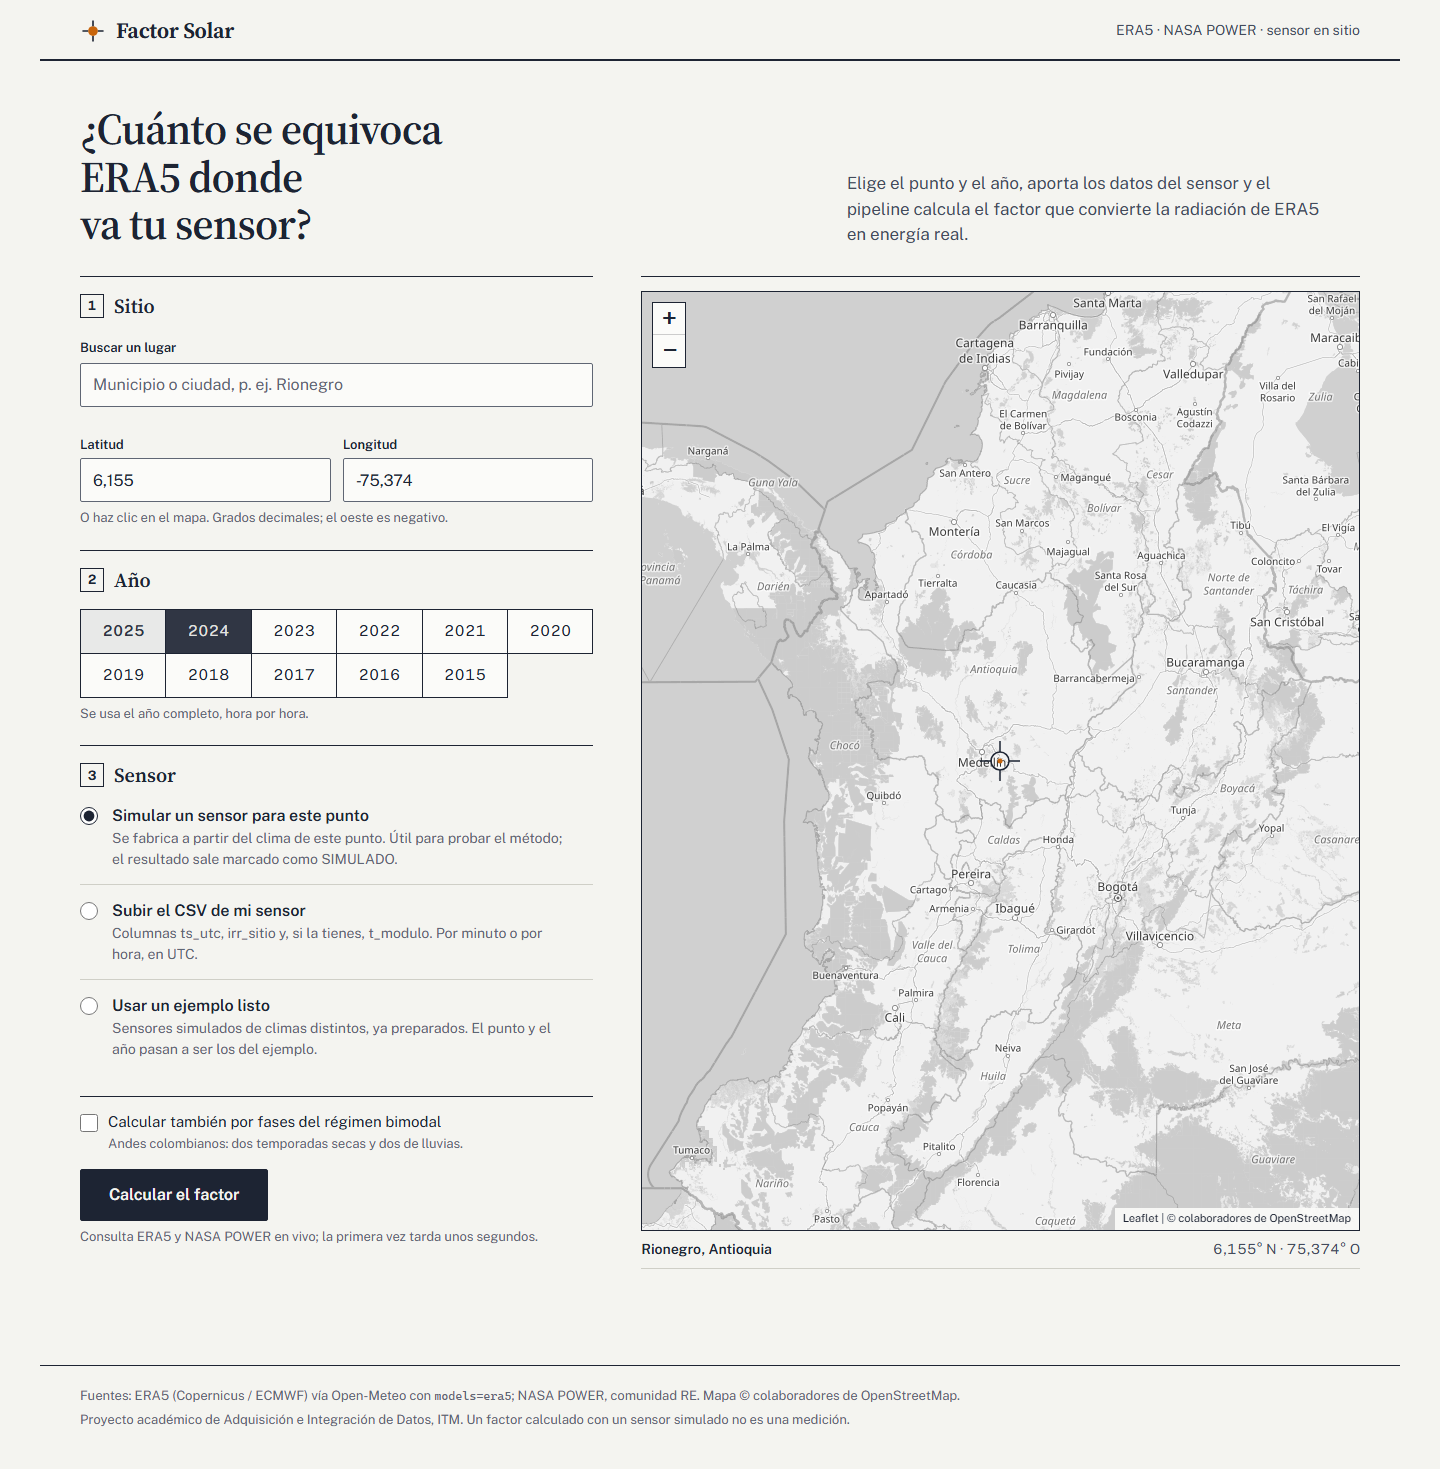
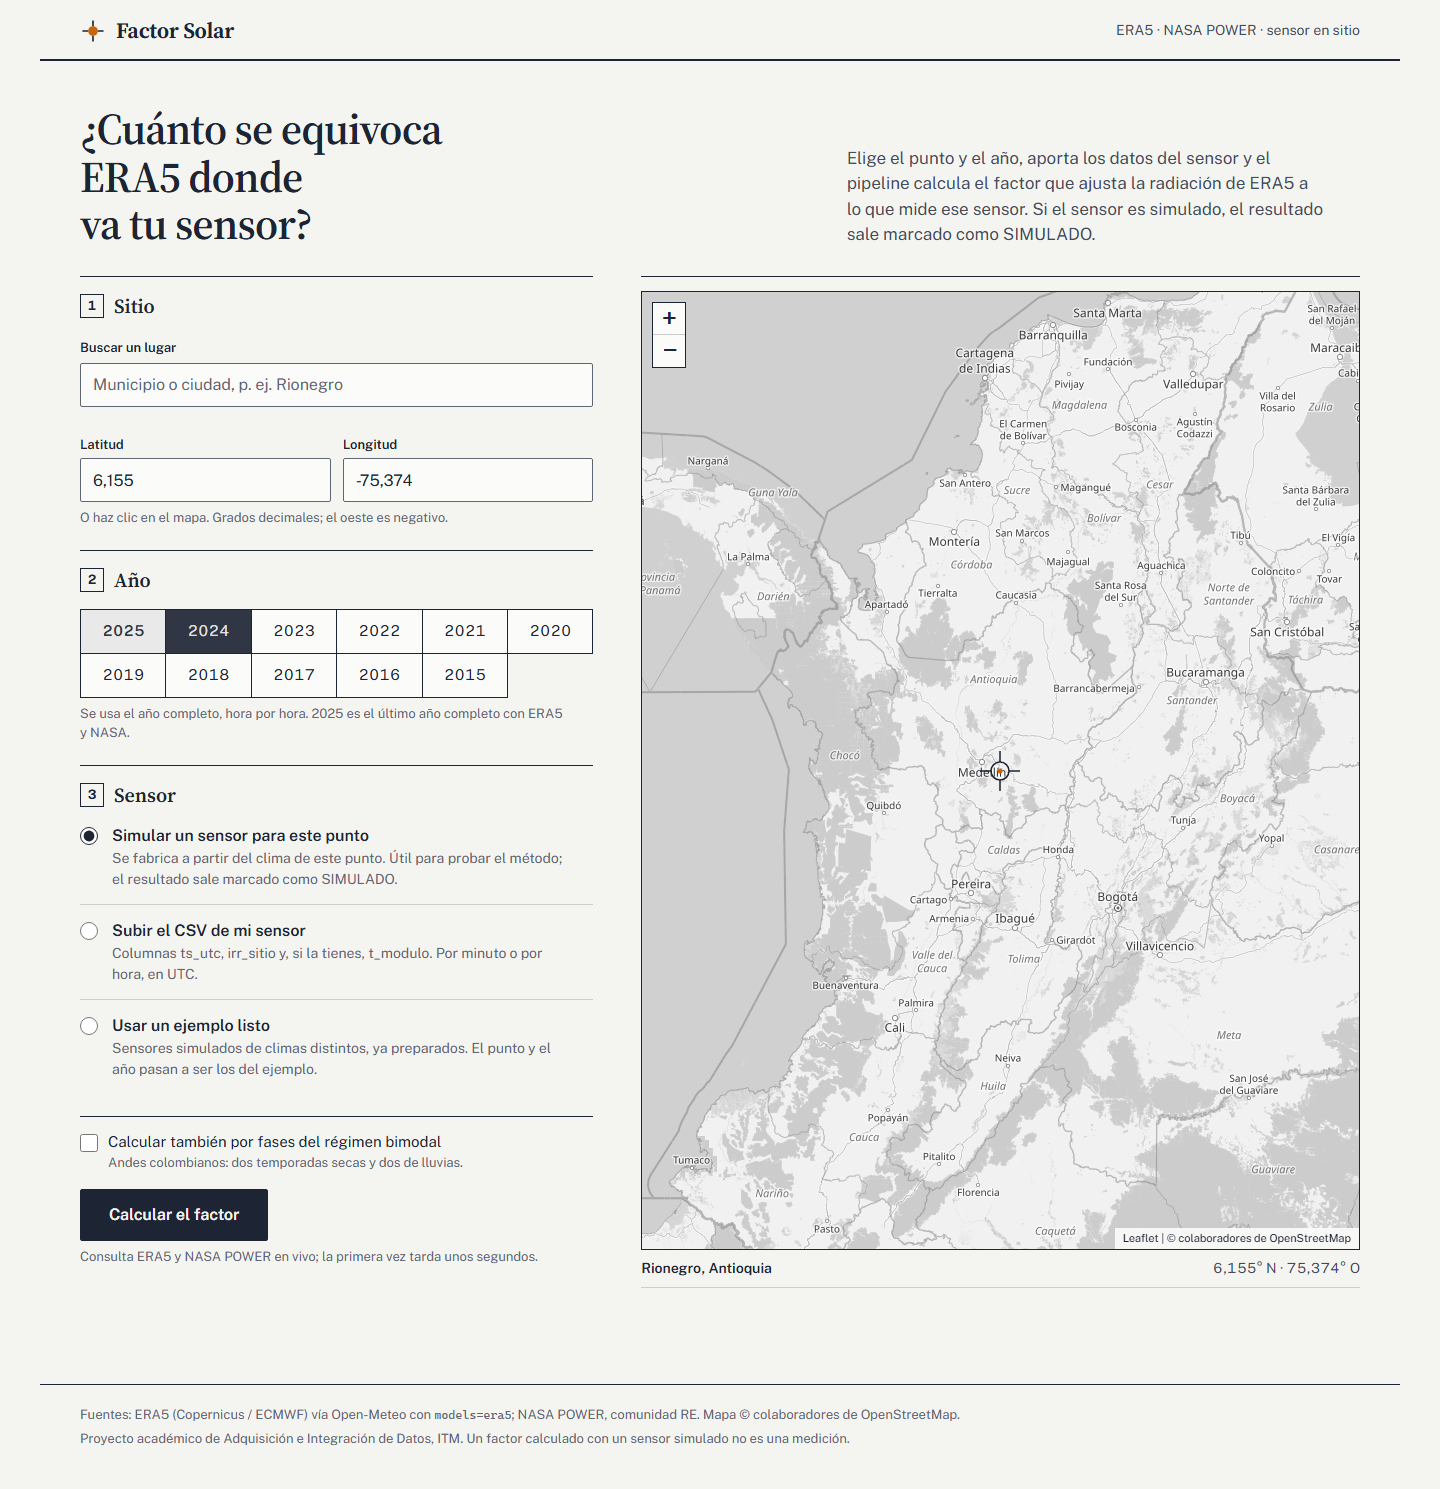
test(qa): add honesty E2E and re-capture screenshots

diff --git a/frontend/qa/honestidad.spec.ts b/frontend/qa/honestidad.spec.ts
@@ -1,0 +1,241 @@
+import { expect, test, type Page } from '@playwright/test'
+import path from 'node:path'
+import { fileURLToPath } from 'node:url'
+import type { EstadoAnalisis, Resultado } from '../src/api/tipos'
+import { resultadoDemo } from '../src/api/mock'
+
+// Honestidad del informe (revisión W4): el informe se arma con una respuesta de /api/analisis fabricada
+// (la forma de la API, cifras de prueba) para forzar los casos que el cálculo real rara vez produce:
+// factor mayor que 1, nulos, sensor simulado, año parcial, reloj del CSV corrido.
+// El backend real solo aporta /api/salud y /api/ejemplos (QA_MODO=real, backend en :8000).
+const SALIDA = path.resolve(path.dirname(fileURLToPath(import.meta.url)), '../../qa/capturas')
+
+test.skip(process.env.QA_MODO !== 'real', 'Solo contra el backend real (QA_MODO=real).')
+
+const ID = 'an-0123456789'
+
+function base(): Resultado {
+  const r = resultadoDemo({ lat: 6.147, lon: -75.377, anio: 2024, sensor_id: 'x' }, ID)
+  r.sitio.nombre = 'Sitio de prueba'
+  return r
+}
+
+/** Informe con el análisis interceptado: no toca el cálculo real. */
+async function verInforme(page: Page, r: Resultado, ancho = 1440) {
+  await page.setViewportSize({ width: ancho, height: 900 })
+  await page.route((u) => u.pathname === '/api/analisis', (ruta) =>
+    ruta.request().method() === 'POST' ? ruta.fulfill({ json: { analisis_id: ID } }) : ruta.continue(),
+  )
+  await page.route((u) => u.pathname === `/api/analisis/${ID}`, (ruta) => {
+    const estado: EstadoAnalisis = {
+      analisis_id: ID,
+      estado: 'listo',
+      etapas: [],
+      resultado: r,
+      error: null,
+    }
+    return ruta.fulfill({ json: estado })
+  })
+  await page.goto('/')
+  await page.getByLabel('Usar un ejemplo listo').check()
+  await page.getByRole('button', { name: /Rionegro/ }).click()
+  await page.getByRole('button', { name: 'Calcular el factor' }).click()
+  const informe = page.locator('.informe')
+  await expect(informe).toBeVisible({ timeout: 60_000 })
+  await page.waitForTimeout(1200) // el número del factor se asienta
+  return informe
+}
+
+test('factor mayor que 1: el texto dice que ERA5 subestima y la regla dibuja lo que le falta', async ({ page }) => {
+  const r = base()
+  r.simulado = false
+  r.etiqueta_sensor = 'DATOS DEL USUARIO (CSV subido)'
+  const f = r.factores.era5.anual
+  f.factor = 1.0821
+  f.sesgo_relativo_pct = -7.58 // ERA5 se queda corto
+  f.suma_fuente_kwh_m2 = 1000
+  f.suma_sensor_kwh_m2 = 1082.1
+  f.factor_verdadero = null
+  r.factores.verdadero_anual = null
+  r.factores.era5.mensual = r.factores.era5.mensual.map((m, i) => ({ ...m, factor: i % 2 ? 1.05 : 0.98, factor_verdadero: null }))
+  const informe = await verInforme(page, r)
+
+  await expect(page.locator('.hallazgo__numero')).toHaveText('1,0821')
+  await expect(page.locator('.hallazgo__frase')).toContainText('ERA5 subestima')
+  await expect(page.locator('.hallazgo__frase')).toContainText('7,6 %')
+  await expect(page.locator('.hallazgo__frase')).not.toContainText('sobrestima')
+  await expect(page.locator('.hallazgo__regla .nota')).toContainText('le falta a ERA5')
+  await expect(page.locator('.hallazgo__formula')).toContainText('energía del sensor')
+  await expect(page.locator('.hallazgo__formula')).not.toContainText('real')
+  await expect(informe).toContainText('por encima de 1,00, ERA5 se queda corto')
+  // La regla dibuja el tramo rayado a continuación de la barra de ERA5, hasta la del sensor.
+  const geo = await page.$eval('.regla svg', (svg) => {
+    const rect = (c: string) => svg.querySelector(`rect.${c}`)!
+    const era5 = rect('regla__barra') as SVGRectElement
+    const falta = rect('regla__exceso') as SVGRectElement
+    return { finEra5: Number(era5.getAttribute('x')) + Number(era5.getAttribute('width')), x: Number(falta.getAttribute('x')), w: Number(falta.getAttribute('width')) }
+  })
+  expect(geo.w).toBeGreaterThan(10)
+  expect(Math.abs(geo.x - geo.finEra5)).toBeLessThan(2)
+  expect(await page.locator('.hallazgo__regla svg').getAttribute('aria-label')).toContain('se queda corto')
+  await page.screenshot({ path: `${SALIDA}/honestidad-factor-mayor-que-1-1440.png`, fullPage: true })
+})
+
+test('sensor simulado: sello dentro del hallazgo, fórmula y frase honestas, pruebas circulares sin valor', async ({ page }) => {
+  const r = base()
+  r.simulado = true
+  const informe = await verInforme(page, r)
+
+  const hallazgo = page.locator('.hallazgo__factor')
+  await expect(hallazgo.locator('.hallazgo__sello')).toHaveText('SIMULADO')
+  await expect(page.locator('.hallazgo__formula')).toContainText('energía del sensor simulado')
+  await expect(page.locator('.hallazgo__formula')).not.toContainText('energía real')
+  await expect(page.locator('.hallazgo__frase')).toContainText('En esta simulación ERA5 se pasa')
+  await expect(page.locator('.hallazgo__frase')).toContainText('(porque la simulación lo supone)')
+  // Tautologías: sensor–ERA5 no informativo, validación = coherencia interna, sin "factor con NASA".
+  await expect(page.locator('#fig-desfase-t').locator('xpath=..')).toContainText('no informativo')
+  await expect(page.locator('.noinfo')).toContainText('No informativo')
+  await expect(page.locator('#fig-desfase-t').locator('xpath=..').locator('.grafica')).toHaveCount(0)
+  await expect(page.locator('.validacion')).toContainText('coherencia interna del cálculo')
+  await expect(page.locator('.validacion')).toContainText('No mide el error real de ERA5')
+  await expect(informe).not.toContainText('el factor sería')
+  await expect(informe).toContainText('no se muestra «el factor con NASA»')
+  // Evidencia de la hora de NASA: tabla con las correlaciones previas y aviso de no independencia.
+  await expect(page.locator('.evidencia')).toContainText('+5 h')
+  await expect(page.locator('.evidencia')).toContainText('no es un chequeo independiente')
+  await expect(page.locator('.evidencia tr[data-elegido="true"]')).toContainText('+6 h')
+  await page.screenshot({ path: `${SALIDA}/honestidad-simulado-1440.png`, fullPage: true })
+})
+
+test('datos subidos: fórmula sin "real" y NASA con su factor', async ({ page }) => {
+  const r = base()
+  r.simulado = false
+  r.etiqueta_sensor = 'DATOS DEL USUARIO (CSV subido)'
+  r.supuestos = []
+  const informe = await verInforme(page, r)
+  await expect(page.locator('.hallazgo__sello')).toHaveCount(0)
+  await expect(page.locator('.hallazgo__formula')).toContainText('energía del sensor')
+  await expect(page.locator('.hallazgo__formula')).not.toContainText('simulado')
+  await expect(page.locator('.hallazgo__formula')).not.toContainText('real')
+  await expect(informe).toContainText('el factor sería')
+  await expect(informe).toContainText('solo descarta errores de más de 1 h')
+})
+
+test('nulos: «—» y ninguna interpretación, nunca 0', async ({ page }) => {
+  const r = base()
+  r.simulado = false
+  r.etiqueta_sensor = 'DATOS DEL USUARIO (CSV subido)'
+  const cc = r.consistencia.era5_vs_nasa
+  cc.correlacion = null
+  cc.diferencia_total_pct = null
+  cc.suma_a_kwh_m2 = null
+  cc.suma_b_kwh_m2 = null
+  cc.conclusion = undefined
+  r.factores.nasa.anual.factor = null
+  r.factores.nasa.anual.sesgo_relativo_pct = null
+  r.desfase.mejor_desfase_h = {}
+  r.factores.era5.mensual[2] = { ...r.factores.era5.mensual[2], factor: null, sesgo_relativo_pct: null, suma_sensor_kwh_m2: null, suma_fuente_kwh_m2: null, factor_verdadero: null }
+  r.energia_mensual[2] = { ...r.energia_mensual[2], nasa_kwh_m2: null, nasa_n_horas: 0 }
+  r.dia_tipico[10] = { ...r.dia_tipico[10], sensor: null, era5: null, nasa: null }
+  const informe = await verInforme(page, r)
+
+  const cruzado = page.locator('#t-cruzado').locator('xpath=..')
+  await expect(cruzado.locator('dl div').first().locator('dd.cifra')).toHaveText('—')
+  await expect(cruzado.locator('dl div').nth(1).locator('dd.cifra')).toHaveText('—')
+  await expect(cruzado).not.toContainText('se parecen')
+  await expect(cruzado).not.toContainText('el factor sería')
+  await expect(page.locator('#fig-desfase-t').locator('xpath=..')).toContainText('No se pudo calcular el máximo')
+  await expect(page.locator('#fig-desfase-t').locator('xpath=..')).not.toContainText('no se ve desfase')
+  // Tabla de factor mensual: marzo sin dato → «—», y el punto no se dibuja.
+  const filaMarzo = page.locator('#fig-factor-t').locator('xpath=..').locator('details tbody tr').nth(2)
+  await expect(filaMarzo.locator('td').first()).toHaveText('—')
+  expect(await page.locator('#fig-factor-t').locator('xpath=..').locator('.tallo circle').count()).toBe(11)
+  const filaEnergia = page.locator('#fig-energia-t').locator('xpath=..').locator('details tbody tr').nth(2)
+  await expect(filaEnergia.locator('td').nth(3)).toHaveText('—')
+  const texto = await informe.innerText()
+  expect(texto).not.toContain('NaN')
+  expect(texto).not.toContain('undefined')
+})
+
+test('año parcial, reloj del CSV corrido y unidades dudosas se marcan junto al número', async ({ page }) => {
+  const r = base()
+  r.simulado = false
+  r.etiqueta_sensor = 'DATOS DEL USUARIO (CSV subido)'
+  r.cobertura = {
+    meses: [],
+    meses_con_datos: ['ene', 'feb', 'mar', 'abr', 'may', 'jun'],
+    meses_sin_datos: ['jul', 'ago', 'sep', 'oct', 'nov', 'dic'],
+    anio_completo: false,
+    criterio: 'x',
+  }
+  r.confiabilidad = {
+    factor_no_confiable: true,
+    motivo_no_confiable: 'posible desfase de hora en el CSV: la correlación sensor–ERA5 es máxima con +2 h, no con 0 h',
+    unidades_sospechosas: true,
+    motivo_unidades: 'el factor anual (0,0009) está fuera de 0,5–1,5',
+  }
+  r.desfase.mejor_desfase_h = { 'sensor vs ERA5': 2, 'ERA5 vs NASA': 0 }
+  r.advertencias = ['Año parcial: el factor anual solo usa los meses con datos.', 'Factor no confiable: algo.', 'Otro aviso cualquiera.']
+  const informe = await verInforme(page, r)
+  const hallazgo = page.locator('.hallazgo__factor')
+  await expect(hallazgo.locator('.hallazgo__titulo')).toContainText('(parcial)')
+  await expect(hallazgo).toContainText('Parcial: solo tiene datos suficientes en ene, feb, mar, abr, may, jun')
+  await expect(hallazgo).toContainText('No es un factor de año completo')
+  await expect(hallazgo).toContainText('No confiable: posible desfase de hora en el CSV')
+  await expect(hallazgo).toContainText('Revise las unidades del CSV')
+  await expect(hallazgo.locator('.hallazgo__frase')).toContainText('los meses con datos')
+  await expect(informe).toContainText('Factor de los meses con datos')
+  // Los avisos que el hallazgo ya muestra no se repiten en la lista; los demás sí.
+  await expect(page.locator('.advertencias li')).toHaveCount(1)
+  await expect(page.locator('.advertencias li')).toContainText('Otro aviso cualquiera')
+  await expect(page.locator('#fig-desfase-t').locator('xpath=..')).toContainText('posible desfase de hora en el CSV')
+})
+
+test('a 390 px los anexos pesados arrancan plegados y a 1440 px abiertos', async ({ page }) => {
+  const r = base()
+  await verInforme(page, r, 390)
+  for (const id of ['t-calidad', 't-fuentes']) {
+    await expect(page.locator(`details.anexo:has(#${id})`)).not.toHaveAttribute('open', /.*/)
+  }
+  await page.locator('details.anexo:has(#t-calidad) summary').click()
+  await expect(page.locator('details.anexo:has(#t-calidad)')).toHaveAttribute('open', /.*/)
+  await page.screenshot({ path: `${SALIDA}/honestidad-anexos-390.png`, fullPage: true })
+
+  const ancho = await page.context().newPage()
+  await verInforme(ancho, r, 1440)
+  for (const id of ['t-calidad', 't-fuentes']) {
+    await expect(ancho.locator(`details.anexo:has(#${id})`)).toHaveAttribute('open', /.*/)
+  }
+})
+
+test('contraste: el detalle de cada paso del registro llega a 4,5:1 y no se desvanece', async ({ page }) => {
+  await page.setViewportSize({ width: 1440, height: 900 })
+  await page.goto('/')
+  await page.getByLabel('Usar un ejemplo listo').check()
+  await page.getByRole('button', { name: /Rionegro/ }).click()
+  await page.getByRole('button', { name: 'Calcular el factor' }).click()
+  const detalle = page.locator('.paso__detalle').first()
+  await expect(detalle).toBeVisible({ timeout: 60_000 })
+  const medida = await detalle.evaluate((el) => {
+    const canal = (v: number) => {
+      const c = v / 255
+      return c <= 0.03928 ? c / 12.92 : ((c + 0.055) / 1.055) ** 2.4
+    }
+    const luz = (rgb: string) => {
+      const [r, g, b] = (rgb.match(/[\d.]+/g) ?? []).map(Number)
+      return 0.2126 * canal(r) + 0.7152 * canal(g) + 0.0722 * canal(b)
+    }
+    let fondo = el as HTMLElement | null
+    let color = ''
+    while (fondo) {
+      color = getComputedStyle(fondo).backgroundColor
+      if (color && color !== 'rgba(0, 0, 0, 0)' && color !== 'transparent') break
+      fondo = fondo.parentElement
+    }
+    const a = luz(getComputedStyle(el).color)
+    const b = luz(color || 'rgb(244, 244, 240)')
+    return { ratio: (Math.max(a, b) + 0.05) / (Math.min(a, b) + 0.05), animacionOpacidad: getComputedStyle(el).animationName.includes('aparecer') }
+  })
+  expect(medida.ratio).toBeGreaterThanOrEqual(4.5)
+  expect(medida.animacionOpacidad).toBe(false)
+})
